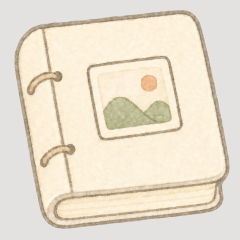
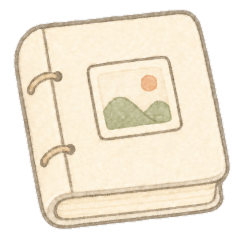
fix: 찐찐찐찐막

diff --git a/src/components/Tour/TourOverlay.jsx b/src/components/Tour/TourOverlay.jsx
@@ -44,6 +44,37 @@ const rectOf = (el) => {
 // 한 단계가 여러 곳을 밝힐 수 있다. target 하나만 적어도 되고, targets로 여러 개를 적어도 된다.
 const targetsOf = (step) => step?.targets ?? (step?.target ? [step.target] : []);
 
+// 이름으로 실제 DOM 버튼을 찾아 누른다. '다음/이전'을 눌러도 그 버튼을 직접 누른
+// 것과 완전히 같은 효과가 나야, 화면 상태와 투어 단계가 어긋나지 않는다.
+const clickTarget = (name) => {
+  const el = findTarget(name);
+  if (!el) return false;
+  el.click();
+  return true;
+};
+
+// stepIndex 단계 자신이 열어둔 것(advance가 'gone'인 단계의 팝업/화면)을 닫는다.
+// 'next' 단계는 스스로 무언가를 열어두지 않으므로(다음 단계로 넘어갈 때 눌려야
+// 할 뿐) 여기서는 할 일이 없다.
+const exitStep = (stepIndex) => {
+  const s = TOUR_STEPS[stepIndex];
+  if (s?.advance === 'gone' && s.closeWith && findTarget(s.anchor)) {
+    return clickTarget(s.closeWith);
+  }
+  return false;
+};
+
+// stepIndex 단계로 들어가려면 무엇을 눌러야 하는지는 그 앞 단계가 안다.
+// (advance가 'next'인 단계는 자신의 target을 눌러야 다음 단계가 나타난다.
+//  'gone'/'any' 단계 다음은 따로 누를 것 없이 이미 화면에 있다)
+const enterStep = (stepIndex) => {
+  const prev = TOUR_STEPS[stepIndex - 1];
+  if (prev?.advance === 'next' && prev.target) {
+    return clickTarget(prev.target);
+  }
+  return false;
+};
+
 const sameRect = (a, b) =>
   (!a && !b) ||
   Boolean(a && b && a.top === b.top && a.left === b.left && a.width === b.width && a.height === b.height);
@@ -360,10 +391,36 @@ function TourOverlay({ onClose }) {
     return () => clearInterval(timer);
   }, [index]);
 
+  // '다음'을 눌러도 실제 버튼을 누른 것과 똑같이 동작해야 한다. 화면이 실제로
+  // 바뀌면(팝업이 열리거나, 지금 단계가 닫히면) 위 tick()의 자동 감지가 알아서
+  // 다음 단계로 넘겨준다 — 진짜로 그 버튼을 눌렀을 때와 같은 경로다.
+  // 'any' 단계(자리를 직접 누를 게 없는 환영/지도 화면)만 그냥 넘어간다.
   const goNext = useCallback(() => {
-    if (index + 1 < TOUR_STEPS.length) setIndex(index + 1);
-    else finish();
-  }, [index, finish]);
+    const next = index + 1;
+    if (next >= TOUR_STEPS.length) {
+      finish();
+      return;
+    }
+    if (step.advance === 'any') {
+      setIndex(next);
+      return;
+    }
+    const closed = exitStep(index);
+    const opened = enterStep(next);
+    // 누를 실제 버튼을 못 찾은 드문 경우엔 갇히지 않도록 그냥 넘어간다.
+    if (!closed && !opened) setIndex(next);
+  }, [index, step, finish]);
+
+  // '이전'도 마찬가지로, 지금 단계가 열어둔 것을 실제로 닫고 앞 단계가 있던
+  // 자리를 실제로 다시 열어서(필요하면) 화면과 단계가 어긋나지 않게 한다.
+  // 뒤로 가는 방향은 자동 감지가 없어서 여기서는 직접 단계를 옮긴다.
+  const goPrev = useCallback(() => {
+    if (index === 0) return;
+    const prevIndex = index - 1;
+    exitStep(index);
+    enterStep(prevIndex);
+    setIndex(prevIndex);
+  }, [index]);
 
   // 다 막아놓고 빠져나갈 길까지 없으면 갇힌다. ESC와 뒤로가기는 살려둔다.
   useEffect(() => {
@@ -513,7 +570,7 @@ function TourOverlay({ onClose }) {
           <FootRow>
             {/* 첫 단계는 '시작하기' 하나만 둔다. 그다음부터는 이전/다음으로 오간다. */}
             {index > 0 ? (
-              <PrevButton type="button" onClick={() => setIndex(index - 1)}>
+              <PrevButton type="button" onClick={goPrev}>
                 이전
               </PrevButton>
             ) : (

diff --git a/src/pages/Home/WeeklyReport/weeklyReportData.js b/src/pages/Home/WeeklyReport/weeklyReportData.js
@@ -3,6 +3,7 @@ import {
   getMyLatestReport,
   getFamilyLatestReport,
   getWeeklyHistory,
+  getFamilyWeeklyHistory,
 } from '../../../api/weekly';
 import { getMyFamily } from '../../../api/family';
 import { getDailyLog } from '../../../api/daily';
@@ -281,6 +282,23 @@ export const prefetchWeeklyReport = (weekId) => {
 //
 // 목록이 실제로 쓰는 건 '주차 이름'과 '한 줄평' 둘뿐인데, 그 둘은 /weekly/history가
 // 0.2초 만에 통째로 준다. 무거운 조회는 상세 화면으로 미룬다.
+// 이력 목록(주차별 한줄평)을 목록 화면이 쓰는 주차 요약 카드로 바꾼다.
+// 월요일 시작과 일요일 시작이 섞여 오는데, 앱은 월요일 기준이라 월요일 것만 취한다.
+// 안 그러면 6일이 겹치는 주가 나란히 뜬다.
+const toPastSummaries = (history, thisWeekId) => {
+  const byDate = new Map(
+    (history ?? [])
+      .filter((item) => new Date(`${item.weekStartDate}T00:00:00`).getDay() === 1)
+      .map((item) => [item.weekStartDate, item]),
+  );
+
+  return [...byDate.keys()]
+    .filter((date) => date < thisWeekId)
+    .sort((a, b) => b.localeCompare(a))
+    .slice(0, PAST_WEEK_COUNT)
+    .map((date) => toWeekSummary(byDate.get(date), new Date(`${date}T00:00:00`)));
+};
+
 export async function loadWeeklyList(person) {
   const thisWeekStart = getWeekStart();
   const thisWeekId = toDateString(thisWeekStart);
@@ -288,31 +306,24 @@ export async function loadWeeklyList(person) {
   // 이번 주 카드는 주차 이름과 '입력 중' 표시만 보여준다. 리포트를 받을 일이 없다.
   const currentSummary = toWeekSummary({ inProgress: true }, thisWeekStart);
 
-  // 가족 구성원의 지난 주를 목록으로 조회하는 API가 없다(최신 한 건만 가능).
-  // 없는 걸 지어내는 대신 목록은 비워 둔다.
   if (person !== 'me') {
     const partner = await findPartner();
     if (!partner) return { current: null, past: [], partnerOnly: true };
-    return { current: currentSummary, past: [], partnerOnly: true };
+
+    // 가족 구성원의 지난 주는 한줄평만 온다(자세한 지표는 최신 리포트에서만
+    // 볼 수 있다). 그래도 목록에서 어떤 주였는지, 한 줄평이 뭐였는지는 보여줄 수 있다.
+    const history = await getFamilyWeeklyHistory(partner.userId).catch(() => null);
+    return {
+      current: currentSummary,
+      past: toPastSummaries(history, thisWeekId),
+      partnerOnly: true,
+    };
   }
 
-  // 월요일 시작과 일요일 시작이 섞여 오는데, 앱은 월요일 기준이라 월요일 것만 취한다.
-  // 안 그러면 6일이 겹치는 주가 나란히 뜬다.
   const history = await getWeeklyHistory().catch(() => null);
-  const byDate = new Map(
-    (history ?? [])
-      .filter((item) => new Date(`${item.weekStartDate}T00:00:00`).getDay() === 1)
-      .map((item) => [item.weekStartDate, item]),
-  );
-
-  const pastDates = [...byDate.keys()]
-    .filter((date) => date < thisWeekId)
-    .sort((a, b) => b.localeCompare(a))
-    .slice(0, PAST_WEEK_COUNT);
-
   return {
     current: currentSummary,
-    past: pastDates.map((date) => toWeekSummary(byDate.get(date), new Date(`${date}T00:00:00`))),
+    past: toPastSummaries(history, thisWeekId),
     partnerOnly: false,
   };
 }

diff --git a/src/components/Tour/tourSteps.js b/src/components/Tour/tourSteps.js
@@ -19,7 +19,7 @@ export const TOUR_STEPS = [
     advance: 'any',
     place: 'center',
     title: '온담에 오신 걸 환영해요',
-    body: '떨어져 지내도 매일 안부를 나누는 곳이에요.\n어떻게 쓰는지 한 바퀴 보여드릴게요.',
+    body: '가족과 떨어져 있어도 온담이 매일 이어줄게요.\n천천히 한 바퀴 둘러볼까요?',
     action: '시작하기',
   },
   {
@@ -27,8 +27,8 @@ export const TOUR_STEPS = [
     anchor: 'cta',
     target: 'cta',
     advance: 'next',
-    title: '하루를 여기서 시작해요',
-    body: '아침 질문, 약 체크, 저녁 기록을 이 자리에서 엽니다.',
+    title: '온담과 하루를 시작해보세요',
+    body: '눌러보면 오늘 할 일이 한눈에 보여요.',
   },
   {
     // 아침 질문 팝업까지 직접 열게 하지 않는다. 팝업 전체와 닫기 버튼만
@@ -40,16 +40,20 @@ export const TOUR_STEPS = [
     anchor: 'picker-box',
     targets: ['picker-close', 'picker-box'],
     advance: 'gone',
-    title: '아침엔 질문, 낮엔 약, 저녁엔 기록',
-    body: '하루 세 번이면 충분해요. 닫으면 다음으로 넘어가요.',
+    // '다음/이전'을 눌러도 실제로 이 버튼을 누른 것과 같은 효과를 내려면 어디를
+    // 눌러야 하는지 필요하다. targets의 첫 번째(클릭 통과 자리)와 항상 같지는
+    // 않아서(아래 'ai' 단계 참고) 따로 적는다.
+    closeWith: 'picker-close',
+    title: '이렇게 세 가지를 남길 수 있어요',
+    body: '지금은 둘러보기만 하고, 다음을 눌러 넘어가요.',
   },
   {
     id: 'journal-nav',
     anchor: 'nav-journal',
     target: 'nav-journal',
     advance: 'next',
-    title: '오늘 남긴 기록은 한곳에 모여요',
-    body: '아침 답변부터 약, 저녁 기록까지 하루가 쌓입니다.',
+    title: '오늘 남긴 기록은 여기서 봐요',
+    body: '아침 질문 답변부터 약, 저녁 기록까지 하루치가 한눈에 모여요.',
   },
   {
     id: 'ai',
@@ -61,8 +65,11 @@ export const TOUR_STEPS = [
     // 뒤로가기 버튼은 화면 왼쪽 위에 있어서 어두운 판에 덮인다.
     // '뒤로가기로 돌아가라'고 해놓고 그 버튼을 막으면 여기서 갇힌다.
     passthrough: true,
-    title: '온담이 하루를 읽고 한마디 남겨드려요',
-    body: '오늘의 기록을 보고 하루를 되돌아보세요.',
+    // 여기선 실제로 눌러야 하는 곳(page-back)이 targets의 첫 번째가 아니다.
+    // 'ai-comment'는 클릭할 곳이 아니라 그냥 같이 밝혀서 보여주기만 하는 자리다.
+    closeWith: 'page-back',
+    title: '여기서 온담의 한마디를 볼 수 있어요',
+    body: '하루 기록을 바탕으로 온담이 짧은 코멘트를 남겨드려요.',
   },
   {
     // 투어에서 안 연 기능들이 여기서 한꺼번에 이름을 얻는다.

diff --git a/src/pages/Home/HomeBottomNav.jsx b/src/pages/Home/HomeBottomNav.jsx
@@ -7,14 +7,14 @@ import navWeeklyIcon from '../../assets/home/nav-weekly.png';
 // 어떤 건 작아 보인다. 투명 여백을 재서(아래 참고) 화면에 보이는 넓이가 서로
 // 비슷해지도록 그림마다 다른 크기를 준다.
 //
-//   추억 보관함     캔버스(240x240) 전체가 꽉 차 있음 (여백 없음, 100%)
+//   추억 보관함     캔버스 240x240의 218x221 (91% x 92%)
 //   오늘의 건강일지  캔버스 160x160의 113x142 (71% x 89%)
 //   주간 이야기     캔버스 160x160의 124x134 (78% x 84%)
 //
 // 이 값을 넣으면 눈에 보이는 그림이 모두 46x46 안팎이 된다.
 // (예전에는 42 / 56 / 56으로 벌어져서 가운데 것만 커 보였다)
 const NAV_ITEMS = [
-  { key: 'questions', icon: navQuestionIcon, label: '추억 보관함', size: 46 },
+  { key: 'questions', icon: navQuestionIcon, label: '추억 보관함', size: 50 },
   { key: 'journal', icon: navHomeIcon, label: '오늘의 건강일지', size: 58 },
   { key: 'weekly', icon: navWeeklyIcon, label: '주간 이야기', size: 57 },
 ];

diff --git a/src/api/weekly/getFamilyWeeklyHistory.js b/src/api/weekly/getFamilyWeeklyHistory.js
@@ -1,0 +1,7 @@
+import { client } from '../client';
+
+// 가족 구성원의 주차별 한줄평 목록 (GET /api/v1/weekly/family/{userId}/history)
+// weekStartDate / weekEndDate / weeklyComment만 담겨 온다. 자세한 지표는 못 준다
+// (특정 지난 주의 전체 리포트를 조회하는 API는 최신 것 하나뿐이다).
+export const getFamilyWeeklyHistory = (userId) =>
+  client.get(`/api/v1/weekly/family/${userId}/history`);

diff --git a/src/api/weekly/index.js b/src/api/weekly/index.js
@@ -2,3 +2,4 @@ export { getMyLatestReport } from './getMyLatestReport';
 export { getWeeklyReport } from './getWeeklyReport';
 export { getFamilyLatestReport } from './getFamilyLatestReport';
 export { getWeeklyHistory } from './getWeeklyHistory';
+export { getFamilyWeeklyHistory } from './getFamilyWeeklyHistory';
